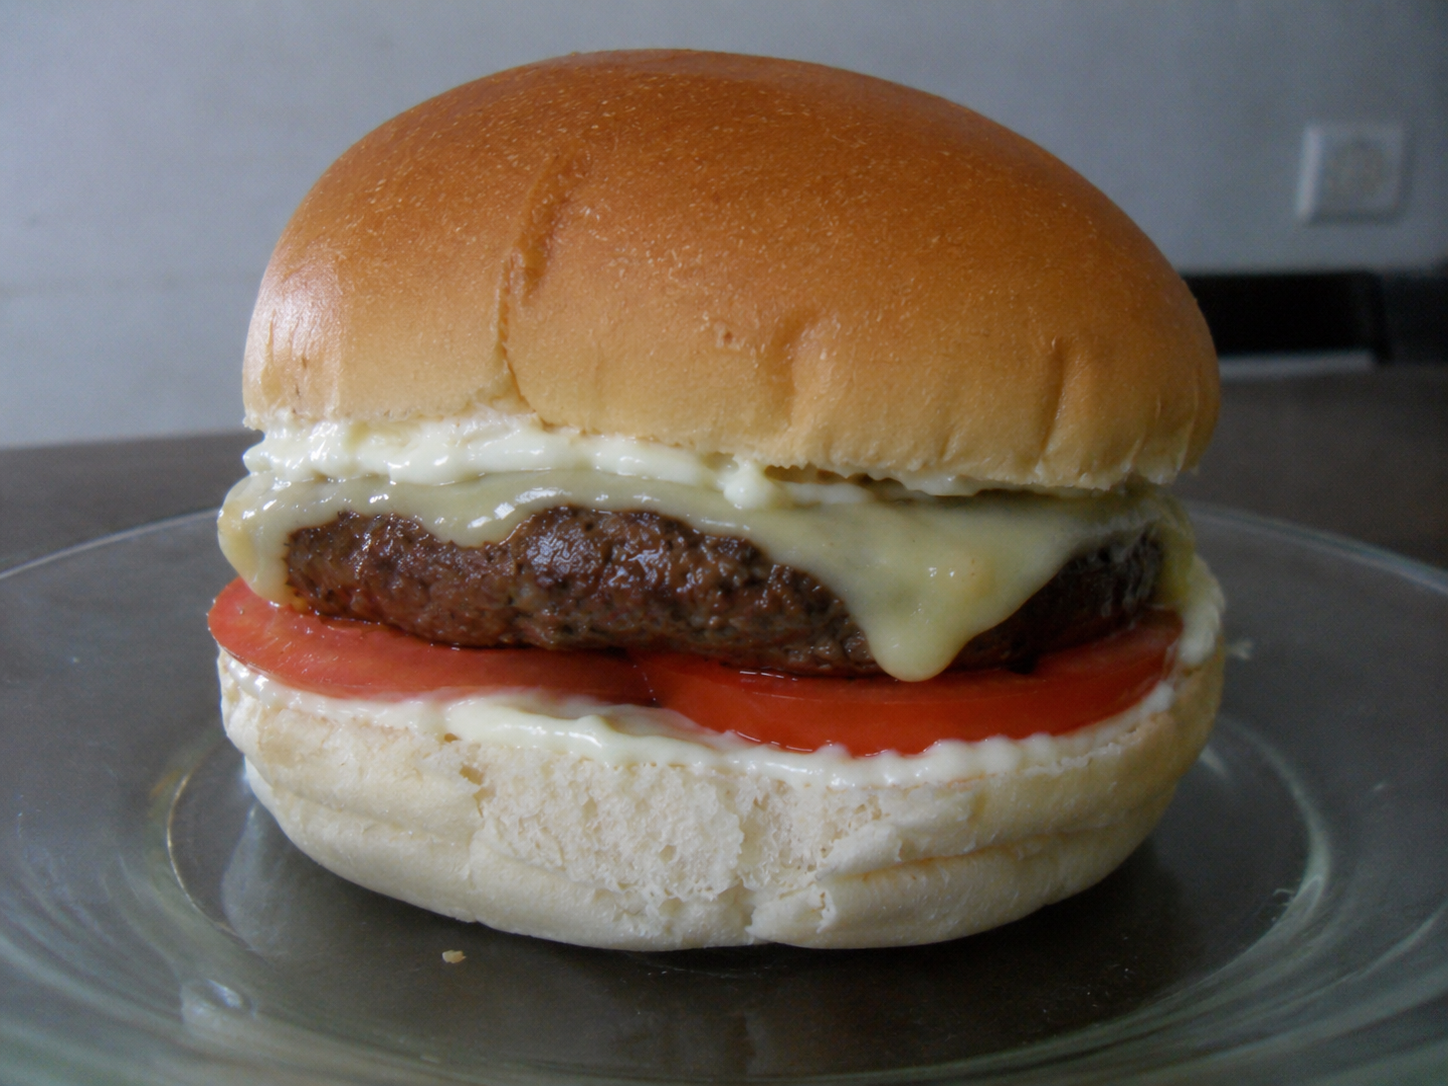
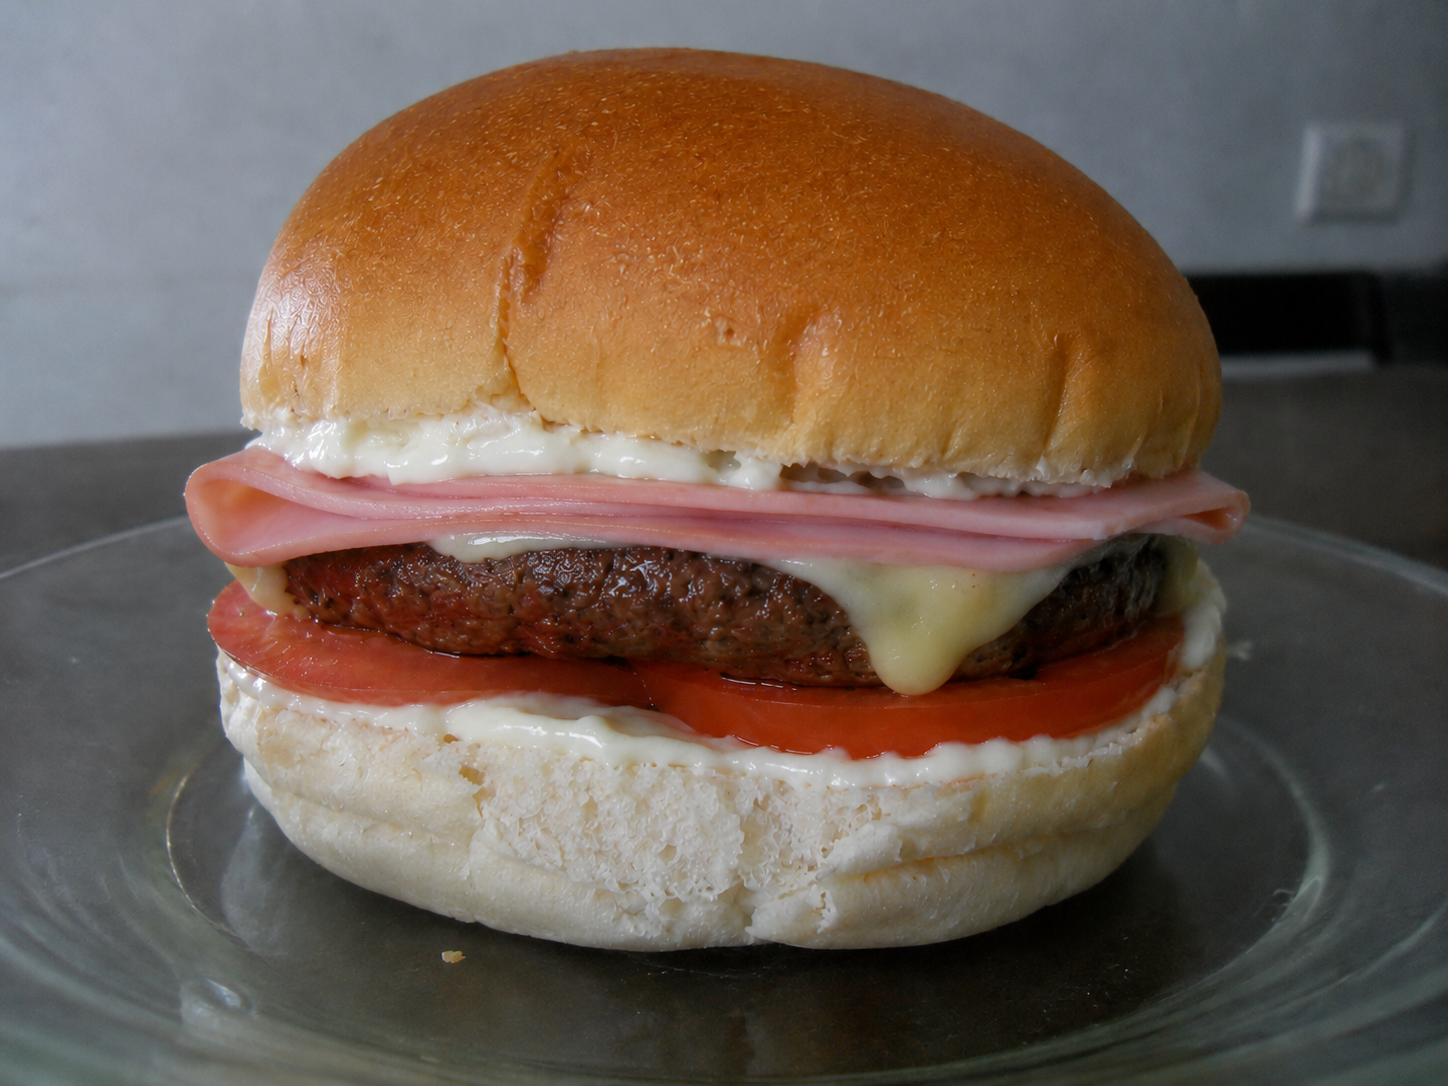
Adição de lanches

diff --git a/index.html b/index.html
@@ -101,87 +101,7 @@
     <!-- ───────────────────────────────
          HERO
     ─────────────────────────────────── -->
-    <section id="hero" aria-labelledby="hero-heading">
-
-      <!-- Background -->
-      <div class="hero-bg" aria-hidden="true">
-        <img
-          src="https://images.unsplash.com/photo-1571091718767-18b5b1457add?w=1600&q=70"
-          alt=""
-          class="hero-bg-img"
-          loading="eager"
-        />
-        <div class="hero-bg-overlay"></div>
-        <div class="hero-noise"></div>
-        <div class="hero-grid"></div>
-      </div>
-
-      <div class="hero-inner container">
-
-        <!-- Left: content -->
-        <div class="hero-content">
-
-          <div class="hero-badge" aria-label="Novo cardápio disponível">
-            <span class="hero-badge-dot" aria-hidden="true"></span>
-            Nosso Cardápio 2026
-          </div>
-
-          <h1 class="hero-title" id="hero-heading">
-            <span class="hero-title-line">OS</span>
-            <span class="hero-title-accent">MELHORES</span>
-            <span class="hero-title-highlight">HAMBURGUERES</span>
-          </h1>
-
-          <p class="hero-subtitle">
-            Nossos hambúrgueres são preparados com paixão para entregar uma experiência única a cada pedido.
-          </p>
-
-          <div class="hero-cta">
-            <button id="hero-cta-btn" class="btn-primary" aria-label="Ver cardápio e fazer pedido">
-              <svg width="18" height="18" viewBox="0 0 24 24" fill="none" stroke="currentColor" stroke-width="2.5" aria-hidden="true">
-                <path d="M3 11h18M3 6a9 9 0 0118 0M5 11v7a2 2 0 002 2h10a2 2 0 002-2v-7"/>
-              </svg>
-              Peça Agora
-            </button>
-          </div>
-
-          
-        </div>
-
-        <!-- Right: visual -->
-        <div class="hero-visual" aria-hidden="true">
-          <div class="hero-glow"></div>
-          <div class="hero-ring hero-ring-1"></div>
-          <div class="hero-ring hero-ring-2"></div>
-
-          <div class="hero-burger-wrap">
-            <img
-              src="assets/main-image.png"
-              alt="Hambúrguer artesanal premium Burger House"
-              class="hero-burger-img"
-            />
-          </div>
-
-          <!-- Floating cards -->
-          <div class="float-el float-el-1">
-            <div class="float-icon">
-              <svg xmlns="http://www.w3.org/2000/svg" width="16" height="16" fill="currentColor" class="bi bi-people-fill" viewBox="0 0 16 16">
-  <path d="M7 14s-1 0-1-1 1-4 5-4 5 3 5 4-1 1-1 1zm4-6a3 3 0 1 0 0-6 3 3 0 0 0 0 6m-5.784 6A2.24 2.24 0 0 1 5 13c0-1.355.68-2.75 1.936-3.72A6.3 6.3 0 0 0 5 9c-4 0-5 3-5 4s1 1 1 1zM4.5 8a2.5 2.5 0 1 0 0-5 2.5 2.5 0 0 0 0 5"/>
-</svg>
-            </div>
-            <div class="float-text">
-              <span style="font-size: 13px;" class="float-label">Lanchonete familiar</span>
-            </div>
-          </div>
-
-          
-        </div>
-
-      </div>
-
-
-
-    </section>
+    <!-- hero section removed entirely -->
 
     <!-- ───────────────────────────────
          MENU / CARDÁPIO

diff --git a/scripts/products.js b/scripts/products.js
@@ -89,13 +89,21 @@ function createProductCard(product) {
 function getProductImage(product) {
   const images = {
     1: "assets/x-bacon.png",
-    2: "https://media-cdn.tripadvisor.com/media/photo-s/06/c2/f9/ff/alex-silva-lanches.jpg",
+    2: "assets/x-calabresa.png",
+    // X-Salada uses an external image fallback
     3: "https://static.wixstatic.com/media/426382_b4e2e7aa9a284d3ebb7489df5fee4d55~mv2.jpg/v1/fill/w_2500,h_2500,al_c/426382_b4e2e7aa9a284d3ebb7489df5fee4d55~mv2.jpg",
     4: "assets/hamburguer.png",
-    5: "assets/x-burguer.png",
-    6: "https://tauste.com.br/media/catalog/product/cache/207e23213cf636ccdef205098cf3c8a3/8/4/84351777340059.jpg",
-    7: "https://andinacocacola.vtexassets.com/arquivos/ids/158758/Coca-Cola-Original-_110440.jpg?v=639156020671730000",
-    8: "https://carrefourbrfood.vtexassets.com/arquivos/ids/18900713/fanta-laranja-2-litros-1.jpg?v=637590176098330000"
+    5: "assets/hamburguer-duplo.jpeg",
+    6: "assets/x-burguer.png",
+    7: "assets/x-egg.png",
+    8: "assets/misto-quente.png",
+    // Cachorros-quentes (novos produtos)
+    9: "assets/cachorro-quente-simples.png",
+    10: "assets/cachorro-quente-especial.png",
+    // Bebidas renumeradas
+    11: "https://tauste.com.br/media/catalog/product/cache/207e23213cf636ccdef205098cf3c8a3/8/4/84351777340059.jpg",
+    12: "https://andinacocacola.vtexassets.com/arquivos/ids/158758/Coca-Cola-Original-_110440.jpg?v=639156020671730000",
+    13: "https://carrefourbrfood.vtexassets.com/arquivos/ids/18900713/fanta-laranja-2-litros-1.jpg?v=637590176098330000"
   };
   return images[product.id] || getFallbackImage(product.category);
 }

diff --git a/scripts/cart.js b/scripts/cart.js
@@ -308,13 +308,20 @@ if (total) total.textContent = totalFormatted;
 function getProductImageUrl(id) {
   const images = {
     1: "assets/x-bacon.png",
-    2: "https://media-cdn.tripadvisor.com/media/photo-s/06/c2/f9/ff/alex-silva-lanches.jpg",
+    2: "assets/x-calabresa.png",
     3: "https://static.wixstatic.com/media/426382_b4e2e7aa9a284d3ebb7489df5fee4d55~mv2.jpg/v1/fill/w_2500,h_2500,al_c/426382_b4e2e7aa9a284d3ebb7489df5fee4d55~mv2.jpg",
     4: "assets/hamburguer.png",
-    5: "assets/x-burguer.png",
-    6: "https://tauste.com.br/media/catalog/product/cache/207e23213cf636ccdef205098cf3c8a3/8/4/84351777340059.jpg",
-    7: "https://andinacocacola.vtexassets.com/arquivos/ids/158758/Coca-Cola-Original-_110440.jpg?v=639156020671730000",
-    8: "https://carrefourbrfood.vtexassets.com/arquivos/ids/18900713/fanta-laranja-2-litros-1.jpg?v=637590176098330000"
+    5: "assets/hamburguer-duplo.jpeg",
+    6: "assets/x-burguer.png",
+    7: "assets/x-egg.png",
+    8: "assets/misto-quente.png",
+    // Cachorros-quentes
+    9: "assets/cachorro-quente-simples.png",
+    10: "assets/cachorro-quente-especial.png",
+    // Bebidas renumeradas
+    11: "https://tauste.com.br/media/catalog/product/cache/207e23213cf636ccdef205098cf3c8a3/8/4/84351777340059.jpg",
+    12: "https://andinacocacola.vtexassets.com/arquivos/ids/158758/Coca-Cola-Original-_110440.jpg?v=639156020671730000",
+    13: "https://carrefourbrfood.vtexassets.com/arquivos/ids/18900713/fanta-laranja-2-litros-1.jpg?v=637590176098330000"
   };
   return images[id] || "https://images.unsplash.com/photo-1568901346375-23c9450c58cd?w=100&q=60";
 }

diff --git a/scripts/modal.js b/scripts/modal.js
@@ -18,13 +18,20 @@ function openProductModal(id) {
   // Versão full da imagem
   const fullImages = {
     1: "assets/x-bacon.png",
-    2: "https://media-cdn.tripadvisor.com/media/photo-s/06/c2/f9/ff/alex-silva-lanches.jpg",
+    2: "assets/x-calabresa.png",
     3: "https://static.wixstatic.com/media/426382_b4e2e7aa9a284d3ebb7489df5fee4d55~mv2.jpg/v1/fill/w_2500,h_2500,al_c/426382_b4e2e7aa9a284d3ebb7489df5fee4d55~mv2.jpg",
     4: "assets/hamburguer.png",
-    5: "assets/x-burguer.png",
-    6: "https://tauste.com.br/media/catalog/product/cache/207e23213cf636ccdef205098cf3c8a3/8/4/84351777340059.jpg",
-    7: "https://andinacocacola.vtexassets.com/arquivos/ids/158758/Coca-Cola-Original-_110440.jpg?v=639156020671730000",
-    8: "https://carrefourbrfood.vtexassets.com/arquivos/ids/18900713/fanta-laranja-2-litros-1.jpg?v=637590176098330000"
+    5: "assets/hamburguer-duplo.jpeg",
+    6: "assets/x-burguer.png",
+    7: "assets/x-egg.png",
+    8: "assets/misto-quente.png",
+    // Cachorros-quentes
+    9: "assets/cachorro-quente-simples.png",
+    10: "assets/cachorro-quente-especial.png",
+    // Bebidas renumeradas
+    11: "https://tauste.com.br/media/catalog/product/cache/207e23213cf636ccdef205098cf3c8a3/8/4/84351777340059.jpg",
+    12: "https://andinacocacola.vtexassets.com/arquivos/ids/158758/Coca-Cola-Original-_110440.jpg?v=639156020671730000",
+    13: "https://carrefourbrfood.vtexassets.com/arquivos/ids/18900713/fanta-laranja-2-litros-1.jpg?v=637590176098330000"
   };
 
   const fullImg = fullImages[id] || imgSrc;

diff --git a/scripts/opening-hours.js b/scripts/opening-hours.js
@@ -15,7 +15,7 @@ const storeSettings = {
   // Dias da semana que o estabelecimento funciona
   // 0 = Domingo, 1 = Segunda, 2 = Terça, 3 = Quarta,
   // 4 = Quinta, 5 = Sexta, 6 = Sábado
-  workingDays: [0, 1, 2, 3, 4, 5, 6],
+  workingDays: [0],
 
   // Mensagem de fechamento exibida ao usuário
   closedMessage: "Estamos fechados no momento. Volte em breve!",